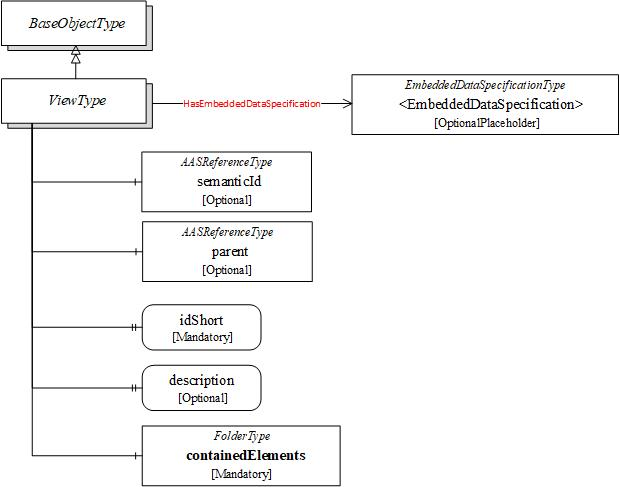
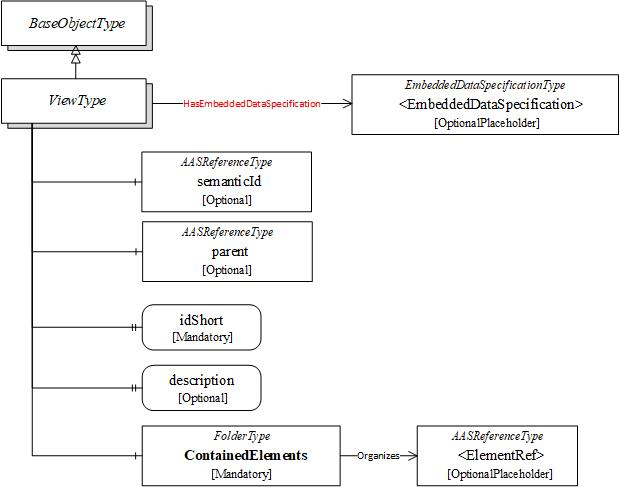
Added ContainsElement ReferenceType and Fixed ViewType

Changed region(s): [[0.6742, 0.8624, 0.95, 1.0], [0.2758, 0.924, 0.4903, 0.9548], [0.5516, 0.8932, 0.6742, 0.9856]]

diff --git a/RELEASE_NOTES.md b/RELEASE_NOTES.md
@@ -1,3 +1,11 @@
+# **Version 0.2.1**
+
+## New ReferenceType
+- Created a new Non Hierarchical ReferenceType named "ContainsElement" for ViewType in order to reference the element indicated by ContainedElements
+
+## ViewType
+- Fixed ViewType in order to contain AASReferenceType instances by means of Organizes References in the ContainedElements Folder.
+
 # **Version 0.2.0**
 
 ## New ObjectTypes
